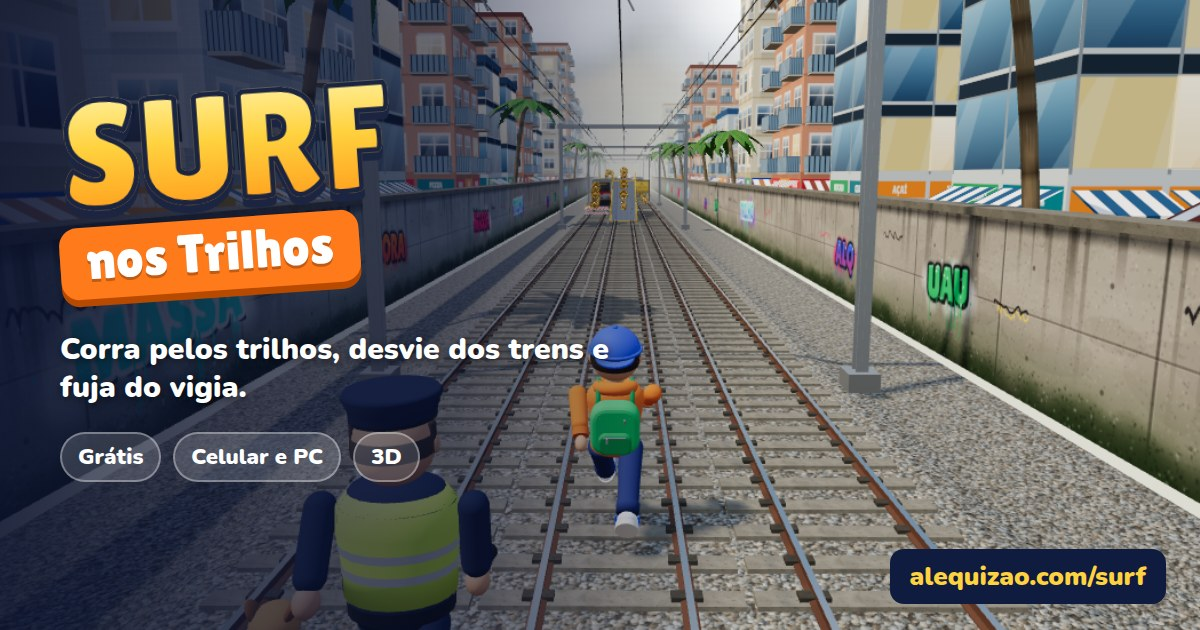
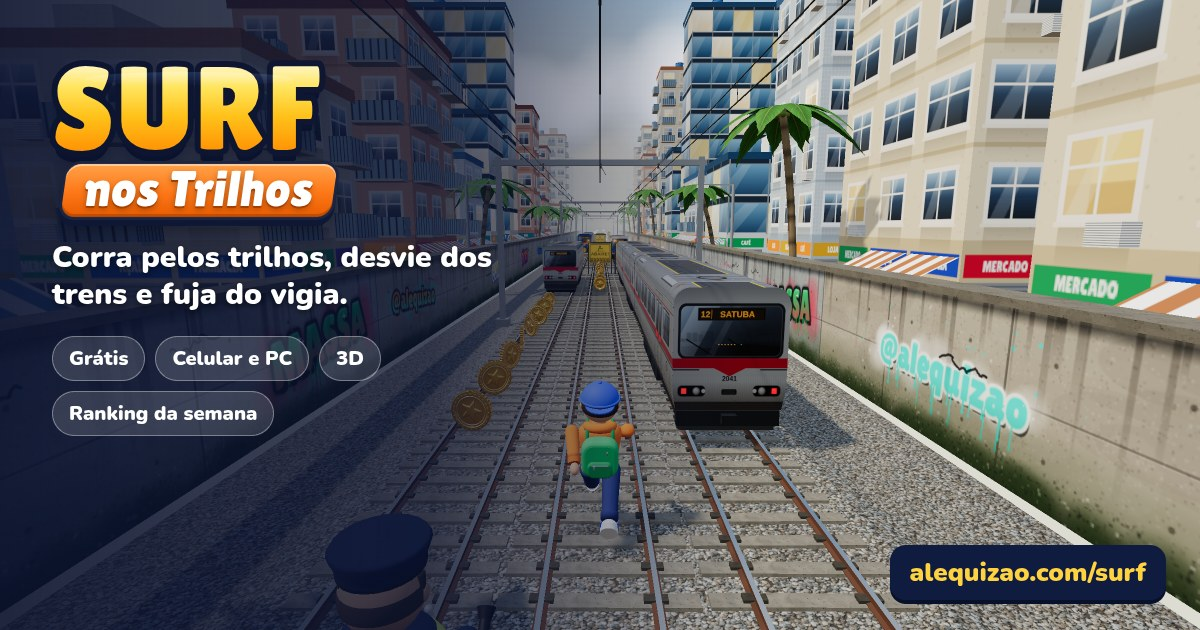
docs: todas as imagens do README refeitas na v1.2.0 (celular 780x1688, desktop, personagens, poderes, prévia do link) + og-imagem nova

diff --git a/index.html b/index.html
@@ -16,14 +16,14 @@
 <meta property="og:url" content="https://alequizao.com/surf/">
 <meta property="og:title" content="Surf nos Trilhos — corrida 3D grátis no navegador">
 <meta property="og:description" content="Corra pelos trilhos, desvie dos trens, pegue moedas e fuja do vigia. Grátis, no celular e no PC, sem instalar.">
-<meta property="og:image" content="https://alequizao.com/surf/og-imagem.jpg?v=1">
+<meta property="og:image" content="https://alequizao.com/surf/og-imagem.jpg?v=2">
 <meta property="og:image:width" content="1200">
 <meta property="og:image:height" content="630">
 <meta property="og:image:alt" content="Cena do jogo Surf nos Trilhos: personagem correndo nos trilhos entre prédios e coqueiros, com o vigia atrás">
 <meta name="twitter:card" content="summary_large_image">
 <meta name="twitter:title" content="Surf nos Trilhos — corrida 3D grátis no navegador">
 <meta name="twitter:description" content="Corra pelos trilhos, desvie dos trens, pegue moedas e fuja do vigia. Grátis, sem instalar.">
-<meta name="twitter:image" content="https://alequizao.com/surf/og-imagem.jpg?v=1">
+<meta name="twitter:image" content="https://alequizao.com/surf/og-imagem.jpg?v=2">
 <script type="application/ld+json">
 {"@context":"https://schema.org","@type":"VideoGame","name":"Surf nos Trilhos","url":"https://alequizao.com/surf/",
 "description":"Jogo de corrida infinita 3D grátis no navegador: corra pelos trilhos, desvie dos trens, pegue moedas e poderes (ímã, jetpack, tênis mola, pontos 2x) e fuja do vigia e do cachorro. Loja de personagens e pranchas, missões e multiplicador. Funciona offline como app (PWA).",
